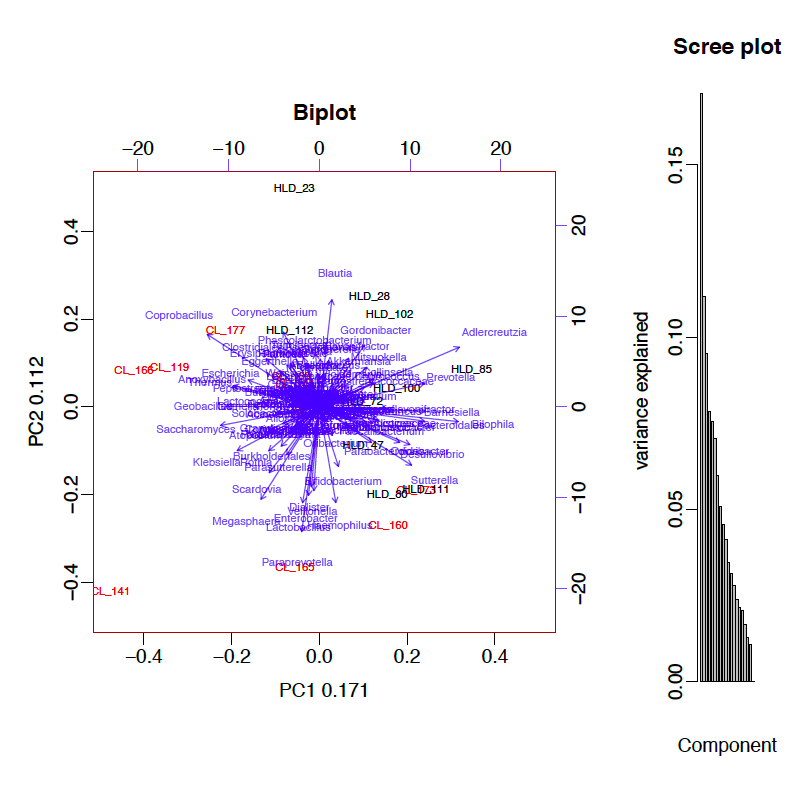
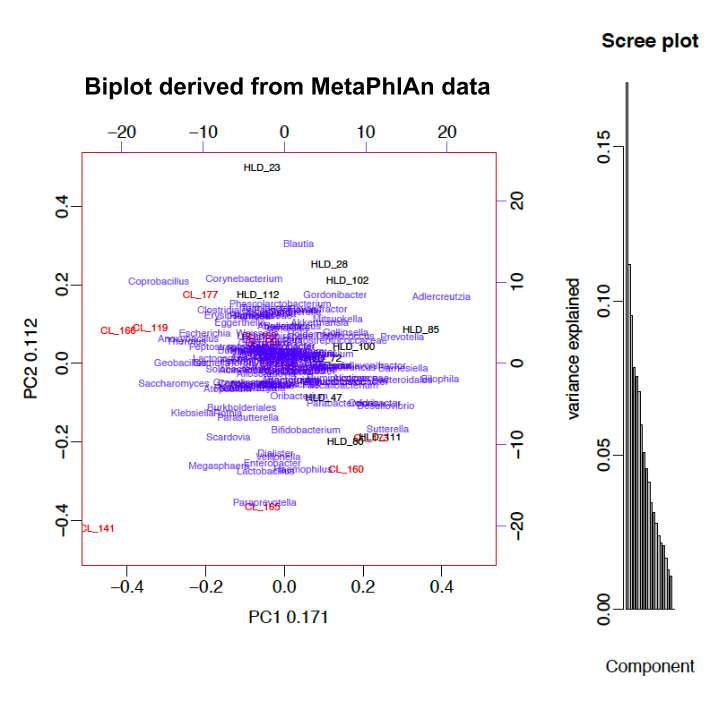
removed arrows from bioplots

diff --git a/introduction.tex b/introduction.tex
@@ -248,11 +248,11 @@ Researchers should include multiple test corrections to ensure that the results 
 \subsection{Microbiome data is compositional}
 In both gene tag sequencing and metagenomic sequencing experiments, the data is in the form of a list of counts per feature, with the features composing an aspect of the microbiome for each sample. This is compositional data. There are several core truths about microbiome data and its compositional nature that should be considered when making an analysis strategy.
 
-First, the total number of reads per sample is irrelevant to the biological implications of the data. The number of reads is influenced by the sampling methodology (for example, the gut microbiome can be sampled by rectal swab or by fecal sample), the way the samples were processed, the quality of the DNA, the performance of the sequencing machine, as well as the bias in the specificity of the primers used for amplifying the DNA. The high amount of technical variation from all of these sources mean that the total number of reads per sample cannot be used to make biological inferences.
+First, the total number of reads per sample is irrelevant to the biological implications of the data. The number of reads is determined mainly by the chosen sequencing platform (i.e. Roche 454, Illumina MiSeq, or Illumina HiSeq). The absolute abundance of reads per sample cannot be used to make biological inferences.
 
 Second, spurious correlations can arise from proportional microbiome data, and should be avoided. In the late 19th century, many studies were being published about how organ sizes (normalized by dividing the size by the individual's height) were correlated. However, it was discovered that when two sets of uncorrelated data are both divided by a third set of uncorrelated data, the two sets will appear spuriously correlated. This is analogous to microbiome data where raw counts are normalized by dividing by the total number of counts \cite{pearson1896mathematical}.
 
-Additionally, the constrained sum causes the abundance of different taxa to appear to be negatively correlated with each other when analyzed by conventional statistics. When one taxa increases in abundance, the counts detected in other taxa decrease in abundance, even if the taxa are not decreasing in abundance biologically.
+Additionally, the constrained sum causes the abundance of different taxa to appear to be negatively correlated with each other when analyzed by conventional statistics. When one taxa increases in abundance, the counts detected in other taxa decrease in proportional abundance, even if the taxa are not decreasing in absolute abundance biologically.
 
 Third, removing an entire variable (an OTU in gene tag sequencing, or a functional annotation in deep metagenomic sequencing) from the analysis should not change correlations between OTUs. A correlation between two OTUs is suspect if it is dependant on the presence of an additional unrelated OTU. Removing variables occur routinely in microbiome research. For example, rare OTUs are thought to not be very informative, and low counts have such high variability, so they are often filtered out. Additionally, primers may be biased against certain taxa, which are underrepresented in the data. Finally, some experiments are performed only on taxa of interest (as is the case with qPCR), and all other OTUs are not considered in the analysis. Without a data transformation, removing variables from the full set will change the correlation between variables \cite{aitchison1982statistical}.
 
@@ -266,7 +266,9 @@ clr(x_i) = \frac{x_i}{\sqrt[n]{\prod_{i=1}^{n} x_i}}
 
 The geometric mean acts as a low level baseline abundance in microbiome data. Taking the logarithm of the ratio allows for a consistent measurement whether the large number is in the numerator or denominator of the ratio.
 
-The centered log ratio transform prevents the total number of reads from affecting the measurement, so long as the geometric mean is a relatively stable baseline. The geometric mean is stable when the total number of reads is constant, or the per feature variation is random. The latter condition is met in a typical microbiome data set. The centered log ratio transform also allows for coherent subcompositional data analysis as remaining values are not affected when entire variables are removed.
+The centered log ratio transform prevents the total number of reads from affecting the measurement, so long as the geometric mean is a relatively stable baseline. The geometric mean is stable when the total number of reads is constant, or the per feature variation is random. The latter condition is met in a typical microbiome data set. The centered log ratio transform also allows for coherent subcompositional data analysis as remaining values are not affected when entire variables are removed. Note that a logarithm cannot be performed on a zero count, which is problematic as microbiome data is sparse. This issue is discussed in the next section.
+
+[TODO: SAY SOMETHING ABOUT UNIVARIATE ANALYSIS]
 
 Compositional techniques such as those espoused in the ANOVA-Like Differential Expression 2 (ALDEx2) software \cite{fernandes2014unifying} and the Analysis of Composition of Microbiomes (ANCOM) framework \cite{mandal2015analysis} should be used to promote consistent data analysis. ALDEx2 performs a log ratio transform and then models the technical variation using the Dirichlet distribution while ANCOM uses log ratio analysis to make point estimates of the variance and mean, without any distributional assumptions.
 
@@ -275,9 +277,11 @@ However, these techniques are not yet mainstream in the field, resulting in a hi
 \subsection{Microbiome data is sparse}
 One of the fundamental challenges in analyzing differential abundance is accounting for zeroes. Unlike a presence/absence test, a zero does not necessarily mean that the expression is not there. The expression could be present in an amount smaller than the resolution of the test, or it be present but missed due to random sampling. This is a problem because when statistical methods are used to examine significantly different expression, as the comparison of zero values to non-zero values are likely to come out as significant whether or not the expression is differential. However, a 0 and a 1 count are easily interchangeable between technical replicates and the difference is not biologically significant. Additionally, the log transformations used in compositional data analysis cannot be performed on zeros. Statisticians often recommend that any sample with at least one zero count be removed during compositional data analysis, but for microbiome data this would often result in the removal of all the samples \cite{aitchison1982statistical}.
 
-The solution for dealing with the zeros in microbiome data is to add a small arbitrary value to each zero, as suggested in the original literature about the statistical analysis of compositional data \cite{aitchison1982statistical}. Two methods have been suggested to do this. This is used in ALDEx2, and the arbitrary value (known as the prior in Bayesian terms) is chosen to be 0.5, representing complete uncertainty in whether or not a zero count in one sample (where the OTU or gene has non zero counts in other samples) would be a 0 or a 1 in a technical replicate \cite{fernandes2013anova}.
+One solution for dealing with the zeros in microbiome data is to add a small arbitrary value to each zero, as suggested in the original literature about the statistical analysis of compositional data \cite{aitchison1982statistical}. Two methods have been suggested to do this. The first is used in ALDEx2, where the arbitrary value (known as the prior in Bayesian terms) is chosen to be 0.5, representing complete uncertainty in whether or not a zero count in one sample (where the feature has non zero counts in other samples) would be a 0 or a 1 in a technical replicate \cite{fernandes2013anova}.
 
-The second method is to calculate likelihood that a zero could be changed to a positive count if the sample were resequenced is estimated, based on the within group variance of the counts of the feature. This is implemented by the cmultRepl command in the zCompositions package in R, with the `count multiplicative zeros' option \cite{palarea2015zcompositions}. Based on the shape of the rest of the data for the same sample, the average value of the count detected if a zero were resequenced is determined (a posterior value in Bayesian terms), and the zeros are all replaced by this fraction.
+The second method is to estimate the likelihood that a zero could be changed to a positive count if the sample were resequenced, based on the within group variance of the counts of the feature. This is implemented by the cmultRepl command in the zCompositions package in R, with the `count multiplicative zeros' option \cite{palarea2015zcompositions}. Based on the shape of the rest of the data for the same sample, the distribution of the count detected if a zero were resequenced is estimated, and the zeros are all replaced by the average expected count.
+
+[TODO: fix the above paragraph to be consistent and correct]
 
 The microbiome field is quite new, and has been undergoing many exciting developments. Gold standards must be set to ensure that studies are replicable, and that published research represents the biological reality.
 

diff --git a/nafld.tex b/nafld.tex
@@ -206,7 +206,7 @@ No obvious structure or separation is evident from the principal components anal
 
 \begin{figure}[h]
 \begin{center}
-\includegraphics[width=0.95\textwidth]{16s_biplot.png}
+\includegraphics[width=0.95\textwidth]{nafld_16s_biplot.png}
 \caption[16S rRNA gene tag sequencing experiment biplot.]{\textbf{16S rRNA gene tag sequencing experiment biplot.} Compositional data analysis is done by transforming the counts with a centered log ratio transform, and then performing a principal coordinate analysis. The variance explained by each genus is overlayed on the same principal coordinate analysis plot. Note that the variance explained by the first and the second coordinate is 9\% and 8\% respectively, indicating that there is not a clear unidirectional separation between groups. Samples from healthy controls are colored black while samples from patients with NASH are colored red. }
 \end{center}
 \label{nafld_16s_biplot}
